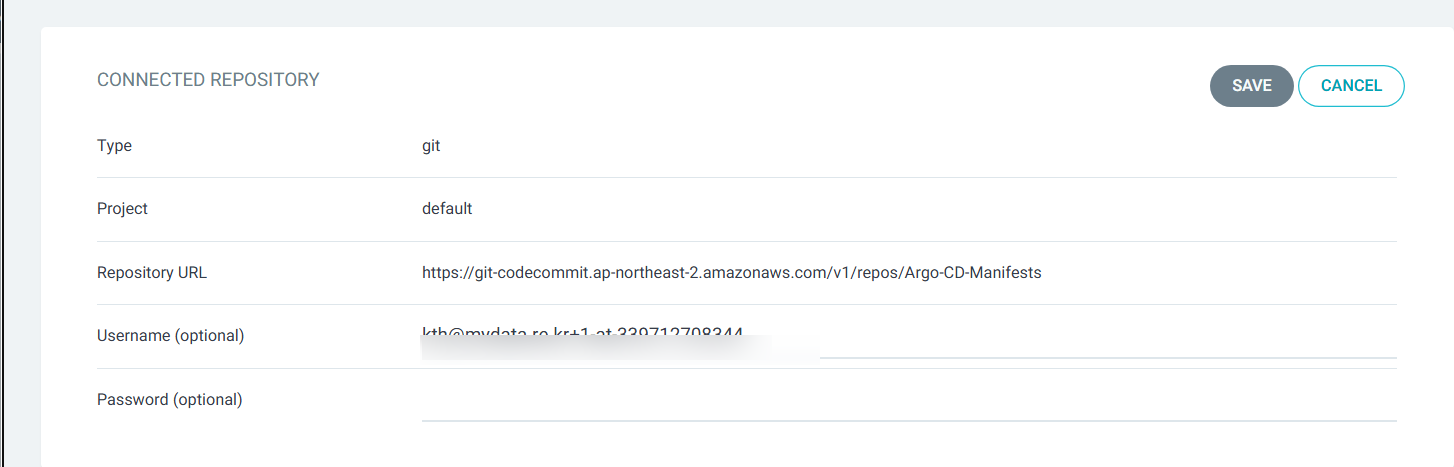
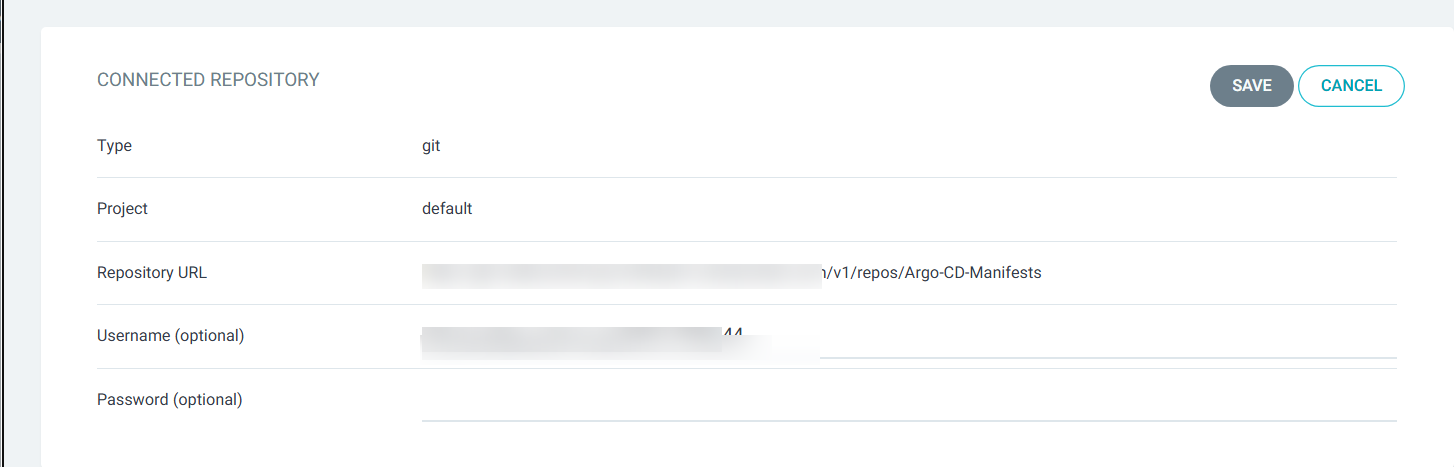
Blur sensitive information in images (alertnow references, emails, repository URLs)

Changed region(s): [[0.2785, 0.5396, 0.588, 0.5996], [0.2785, 0.6895, 0.4952, 0.7195]]

diff --git a/blur_images.py b/blur_images.py
@@ -1,0 +1,68 @@
+#!/usr/bin/env python3
+from PIL import Image, ImageFilter
+import os
+
+def blur_region(image, x, y, width, height, blur_radius=10):
+    """특정 영역을 블러 처리"""
+    # 블러 처리할 영역 추출
+    region = image.crop((x, y, x + width, y + height))
+    
+    # 블러 처리
+    blurred_region = region.filter(ImageFilter.GaussianBlur(radius=blur_radius))
+    
+    # 원본 이미지에 블러 처리된 영역 붙여넣기
+    image.paste(blurred_region, (x, y))
+    
+    return image
+
+def process_image(image_path, blur_regions):
+    """이미지를 로드하고 지정된 영역들을 블러 처리"""
+    try:
+        image = Image.open(image_path)
+        
+        for region in blur_regions:
+            x, y, width, height = region
+            image = blur_region(image, x, y, width, height)
+        
+        image.save(image_path)
+        print(f"Processed: {image_path}")
+        return True
+    except Exception as e:
+        print(f"Error processing {image_path}: {e}")
+        return False
+
+# 각 이미지별 블러 처리할 영역 정의 (x, y, width, height)
+blur_configs = {
+    "3.Application/custom/image-2.png": [
+        (422, 264, 400, 25),  # Repository URL
+        (422, 327, 300, 25),  # Username
+    ],
+    "3.Application/custom/image.png": [
+        (186, 150, 600, 30),  # pipeline_alertnow-webapp_v2_kbds-stg
+        (200, 218, 200, 20),  # kimutae1 email
+        (834, 218, 200, 20),  # kimutae1 email (right side)
+        (574, 442, 150, 25),  # alertnowwebappv2
+        (1000, 397, 150, 25), # alertnowwebappv2 (right)
+        (1000, 487, 200, 25), # alertnowwebappv2-gzzjq
+        (1000, 578, 200, 25), # alertnowwebappv2-canary
+        (1000, 669, 250, 25), # alertnowwebappv2-canary-xk
+        (1000, 759, 250, 25), # alertnowwebappv2-rollout-76
+        (1000, 849, 250, 25), # alertnowwebappv2-rollout-76
+        (574, 623, 200, 25),  # alertnowwebappv2-canary
+        (574, 804, 200, 25),  # alertnowwebappv2-rollout
+        (574, 895, 150, 25),  # alertnowwebappv2 (bottom)
+    ]
+}
+
+def main():
+    base_dir = "/work/repo/private-eks"
+    
+    for image_file, regions in blur_configs.items():
+        image_path = os.path.join(base_dir, image_file)
+        if os.path.exists(image_path):
+            process_image(image_path, regions)
+        else:
+            print(f"Warning: Image not found: {image_path}")
+
+if __name__ == "__main__":
+    main()
